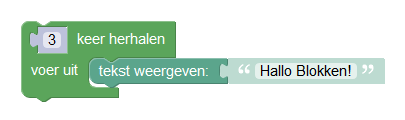
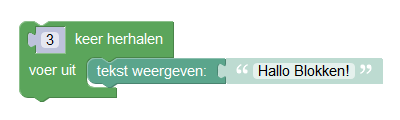
Fix images to ratio

diff --git a/README.md b/README.md
@@ -28,3 +28,10 @@ See [Configuration Reference](https://cli.vuejs.org/config/).
 ### Images
 
 Free from https://pxhere.com/ or https://pexels.com
+
+Images sizes for course:
+
+* 400 by 120
+* 800 by 240
+
+Or same ratio
